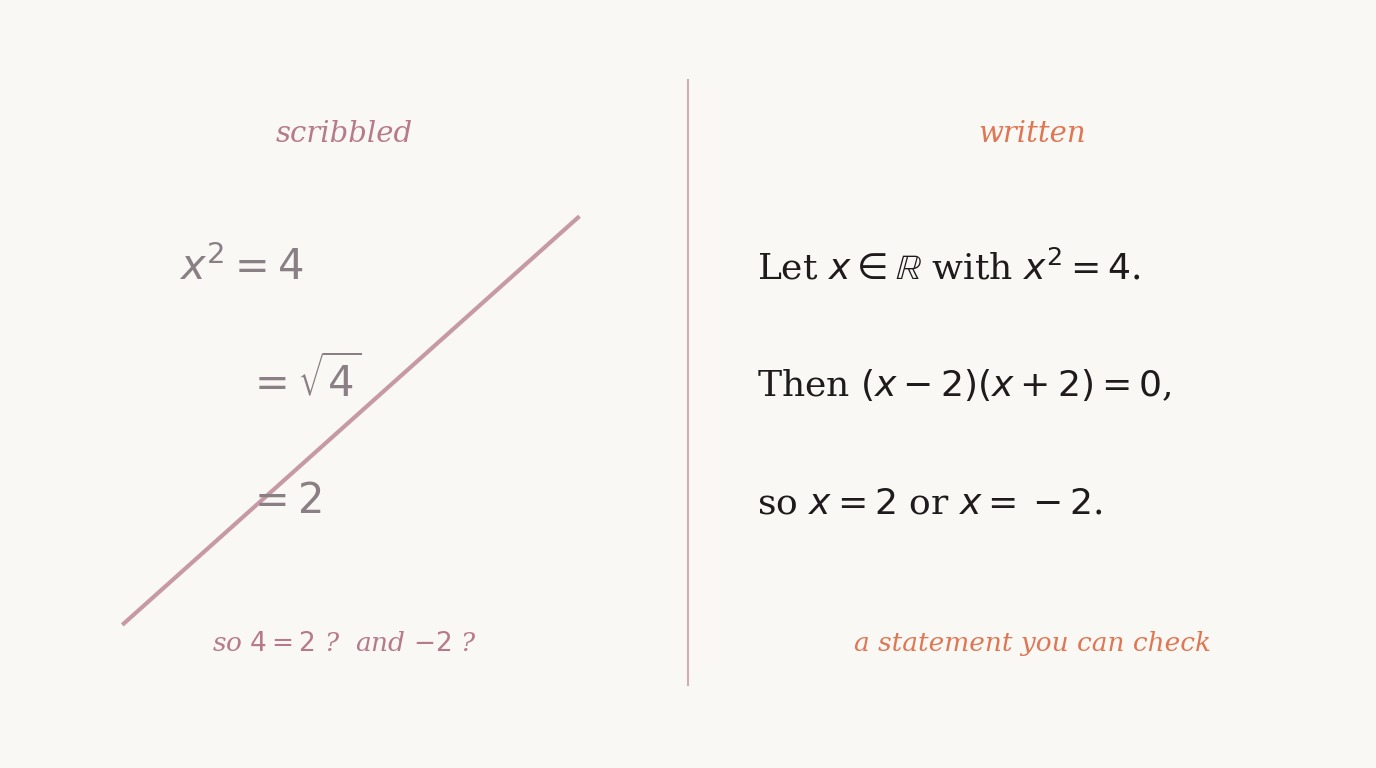
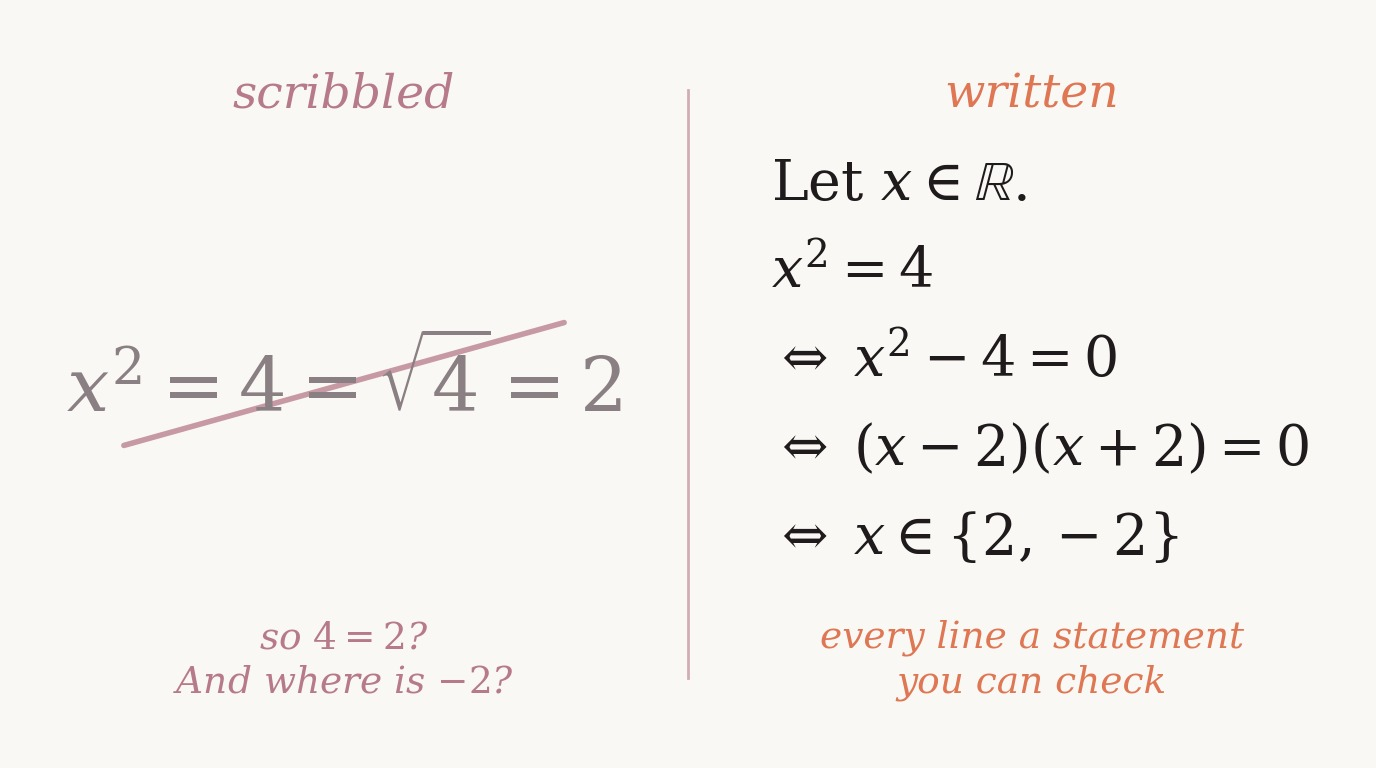
math-writing: larger, more readable card image with its own script

diff --git a/math-writing/math_writing_card.py b/math-writing/math_writing_card.py
@@ -1,0 +1,46 @@
+"""Card image for 'Easy Writing "Mathematisch"': left the scribbled chain x² = 4 = √4 = 2, right the same
+solution written as a chain of equivalent statements. Large type, so it stays readable as a small card.
+Usage: python math_writing_card.py out.jpg"""
+import sys
+import matplotlib
+matplotlib.use('Agg')
+import matplotlib.pyplot as plt
+
+W, H = 1376, 768
+IVORY, ROSE, TERRA, DARK, MUTED = '#FAF8F5', '#B77A8A', '#DF7654', '#1F1A1C', '#8A7F82'
+plt.rcParams['mathtext.fontset'] = 'dejavuserif'
+
+fig = plt.figure(figsize=(W / 100, H / 100), dpi=100)
+fig.patch.set_facecolor(IVORY)
+ax = fig.add_axes([0, 0, 1, 1])
+ax.set_facecolor(IVORY)
+ax.axis('off')
+ax.set_xlim(0, W)
+ax.set_ylim(0, H)
+
+# divider
+ax.plot([W / 2, W / 2], [90, H - 90], color=ROSE, lw=2, alpha=0.6)
+
+# headings
+ax.text(W * 0.25, H - 95, 'scribbled', ha='center', va='center', fontsize=34, style='italic', family='serif', color=ROSE)
+ax.text(W * 0.75, H - 95, 'written', ha='center', va='center', fontsize=34, style='italic', family='serif', color=TERRA)
+
+# left: one long chain of equals signs, struck through
+ax.text(W * 0.25, H * 0.50, r'$x^2 = 4 = \sqrt{4} = 2$', ha='center', va='center', fontsize=54, color=MUTED)
+ax.plot([W * 0.09, W * 0.41], [H * 0.42, H * 0.58], color=ROSE, lw=4, alpha=0.75, solid_capstyle='round')
+ax.text(W * 0.25, H * 0.14, 'so $4 = 2$?\nAnd where is $-2$?', ha='center', va='center', fontsize=27,
+        linespacing=1.3, style='italic', family='serif', color=ROSE)
+
+# right: a chain of equivalent statements, one per line
+lines = [r'Let $x \in \mathbb{R}$.',
+         r'$x^2 = 4$',
+         r'$\Leftrightarrow\; x^2 - 4 = 0$',
+         r'$\Leftrightarrow\; (x-2)(x+2) = 0$',
+         r'$\Leftrightarrow\; x \in \{2, -2\}$']
+x0 = W * 0.56
+for i, s in enumerate(lines):
+    ax.text(x0, H * 0.76 - i * 0.115 * H, s, ha='left', va='center', fontsize=40, color=DARK, family='serif')
+ax.text(W * 0.75, H * 0.14, 'every line a statement\nyou can check', ha='center', va='center', fontsize=27,
+        linespacing=1.3, style='italic', family='serif', color=TERRA)
+
+fig.savefig(sys.argv[1], dpi=100, facecolor=IVORY, pil_kwargs={'quality': 92})

diff --git a/README.md b/README.md
@@ -8,7 +8,7 @@ The code behind [The Playground](https://belindata.com/playground.html) on belin
 
 | Card | Folder | Interactive | Python |
 |---|---|---|---|
-| [Easy Writing “Mathematisch”](https://belindata.com/projects/math-writing.html) | [`math-writing/`](math-writing/) | [`moser_circle.html`](math-writing/moser_circle.html) | `coming_soon_cards.py` |
+| [Easy Writing “Mathematisch”](https://belindata.com/projects/math-writing.html) | [`math-writing/`](math-writing/) | [`moser_circle.html`](math-writing/moser_circle.html) | `math_writing_card.py` |
 | [How Much Does a Flat Square Weigh?](https://belindata.com/projects/hausdorff.html) | [`hausdorff/`](hausdorff/) | [`koch_curve.html`](hausdorff/koch_curve.html) | `koch_curve.py` |
 | [Robots Aiming for Banach Fixed Points](https://belindata.com/projects/banach.html) | [`banach/`](banach/) | [`robots_map.html`](banach/robots_map.html) |  |
 | [Measuring on Curved Surfaces](https://belindata.com/projects/curved-surfaces.html) | [`curved-surfaces/`](curved-surfaces/) |  | `logo_twin_trefoil.py`, `moebius_chart_grid.py` |

diff --git a/math-writing/README.md b/math-writing/README.md
@@ -3,7 +3,7 @@
 Article: [https://belindata.com/projects/math-writing.html](https://belindata.com/projects/math-writing.html) (in progress)
 
 - `moser_circle.html`: the interactive from the article as a standalone page. Open it in any browser, no installation needed.
-- card image computed by `../cards/coming_soon_cards.py`
+- `math_writing_card.py`: the card image: the scribbled chain x² = 4 = √4 = 2 next to the same solution written as a chain of equivalent statements
 - `card_math_writing.jpg`: the image as used on the site
 
 Python scripts need `numpy` and `matplotlib` (`pip install -r ../requirements.txt`).

diff --git a/cards/README.md b/cards/README.md
@@ -4,6 +4,6 @@ Scripts that draw several card images at once. Usage: `python <script> <output f
 
 | Script | Cards |
 |---|---|
-| `coming_soon_cards.py` | isoperimetric, math-writing, embeddings, me-vs-ai (first version) |
+| `coming_soon_cards.py` | isoperimetric, embeddings; first versions of math-writing and me-vs-ai (both since replaced by their own scripts) |
 | `shell_api_cards.py` | shell, api |
 | `ode_numerics_cards.py` | ode-haystack, numerics-exam |
